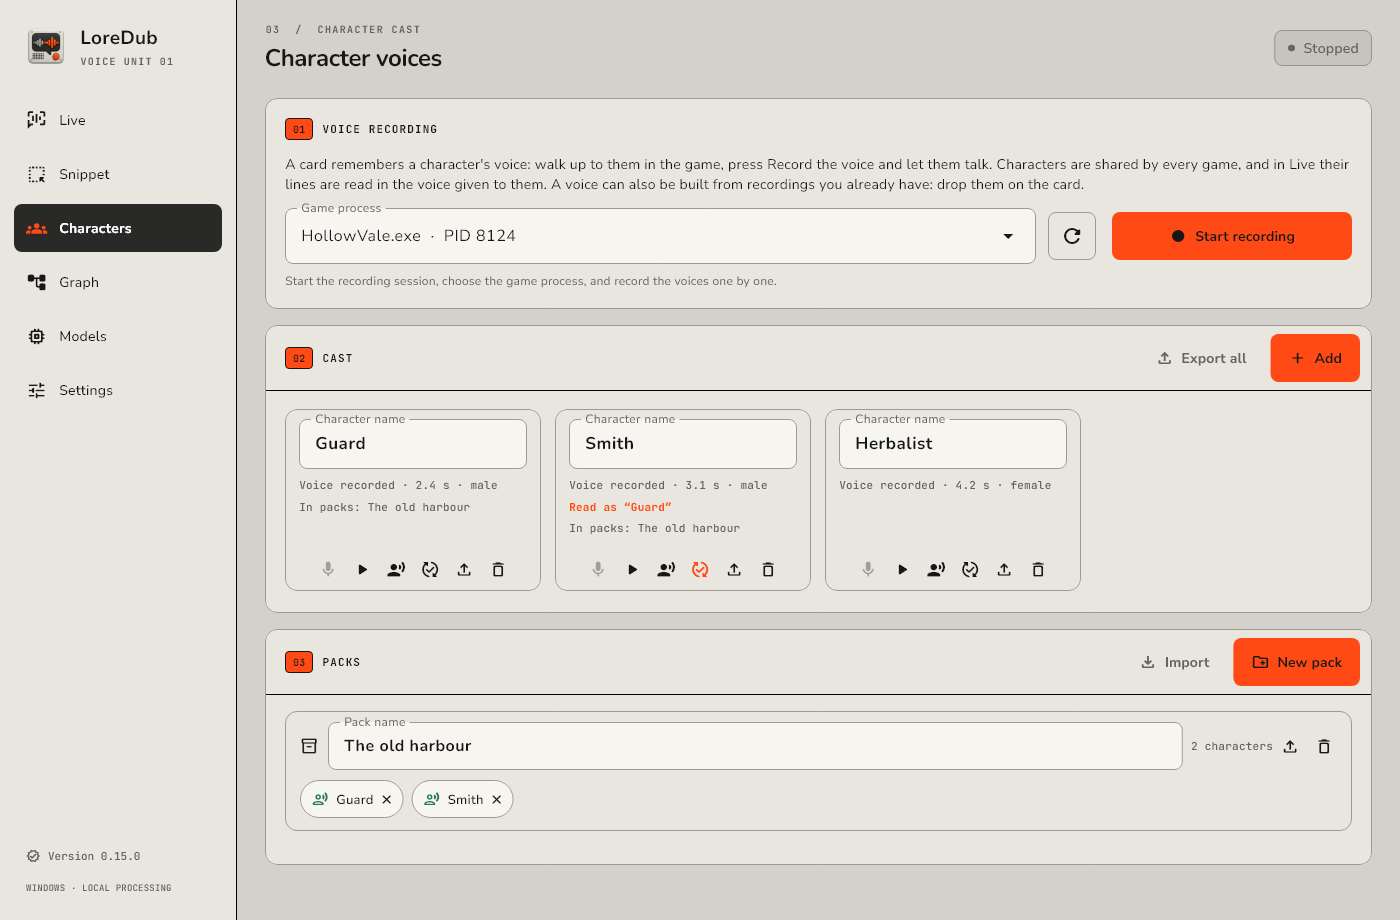
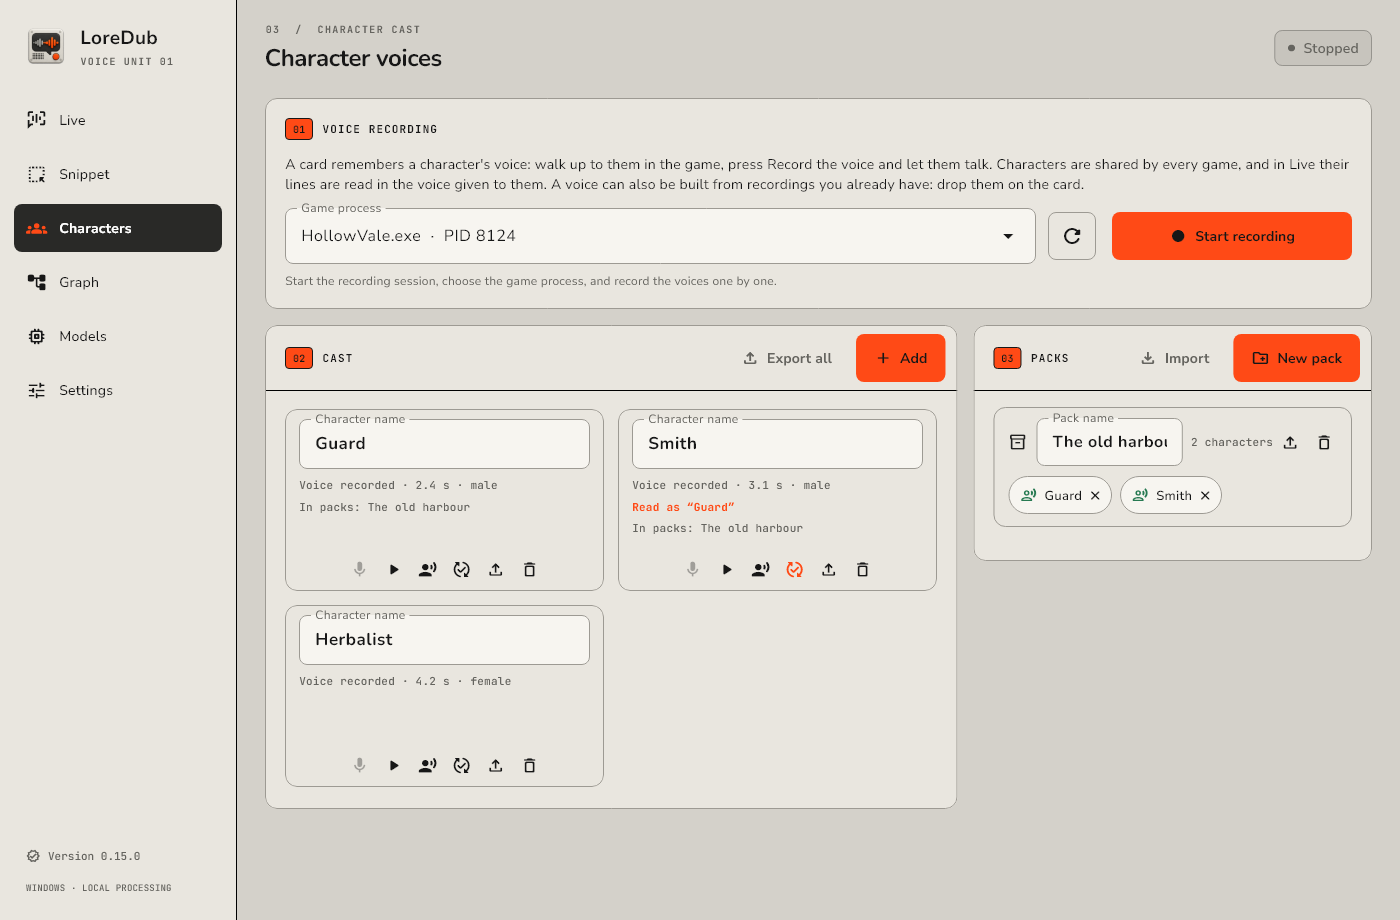
feat: put the packs beside the cast, not under it
A card went into a pack by being dragged down a scrolling column, and the
pack it was headed for was usually off the bottom of the screen by the time
the card was picked up.

The cast now takes the left of the characters screen and the packs stand on
its right, so the journey is across rather than down and both ends of it stay
in sight. Each side scrolls on its own: reaching for a pack no longer moves
the cards under the pointer. A window too narrow to hold two columns -- under
880 for the pair -- puts the packs back underneath, where the drag is longer
but possible.

The heading of an area became a wrap: in a column narrow enough, its buttons
drop to a line of their own rather than off the edge. _ModuleLabel is a row
of its content's width now instead of whatever it is given, or it would fill
a wrap by itself and leave the buttons nowhere to sit.

diff --git a/lib/src/ui/dashboard/dashboard_view.dart b/lib/src/ui/dashboard/dashboard_view.dart
@@ -1928,6 +1928,10 @@ class _ModuleLabel extends StatelessWidget {
 
   @override
   Widget build(BuildContext context) => Row(
+    // As wide as the number and the name, and no wider: given room to
+    // spread — a heading that wraps — a row of its full width would leave
+    // nothing to sit beside it.
+    mainAxisSize: MainAxisSize.min,
     children: [
       Container(
         width: 28,
@@ -2524,23 +2528,75 @@ class _CharactersPanel extends StatelessWidget {
           ready: (selection) => selection.voiceConverter?.installed ?? false,
         ),
         const SizedBox(height: 16),
-        // Two areas, one under the other: the cast, and the packs it is
-        // grouped into. They scroll together, so a card can be dragged from
-        // one into the other without the screen moving under the pointer.
+        // The cast on the left, the packs beside it on the right: a card is
+        // carried across rather than down a scroll, and both ends of the
+        // journey stay in sight the whole way. A window too narrow to hold
+        // the two side by side puts the packs back underneath, where a drag
+        // is longer but possible.
         Expanded(
-          child: ListView(
-            padding: EdgeInsets.zero,
-            children: [
-              _CharacterCast(cubits: cubits),
-              const SizedBox(height: 16),
-              _CharacterPacks(cubits: cubits),
-            ],
+          child: LayoutBuilder(
+            builder: (context, constraints) => constraints.maxWidth < _packsBeside
+                ? ListView(
+                    padding: EdgeInsets.zero,
+                    children: [
+                      _CharacterCast(cubits: cubits),
+                      const SizedBox(height: 16),
+                      _CharacterPacks(cubits: cubits),
+                    ],
+                  )
+                : Row(
+                    crossAxisAlignment: CrossAxisAlignment.start,
+                    children: [
+                      // Each side scrolls on its own, so reaching for a pack
+                      // does not move the cards under the pointer.
+                      Expanded(
+                        child: ListView(
+                          padding: EdgeInsets.zero,
+                          children: [_CharacterCast(cubits: cubits)],
+                        ),
+                      ),
+                      const SizedBox(width: 16),
+                      SizedBox(
+                        width: (constraints.maxWidth * 0.36).clamp(340.0, 480.0),
+                        child: ListView(
+                          padding: EdgeInsets.zero,
+                          children: [_CharacterPacks(cubits: cubits)],
+                        ),
+                      ),
+                    ],
+                  ),
           ),
         ),
       ],
     ),
   );
 }
+
+/// The head of an area: its number and name on one side, what can be done
+/// to it on the other. In a column too narrow to hold both, the buttons
+/// drop to a line of their own rather than off the edge.
+class _AreaHeading extends StatelessWidget {
+  const _AreaHeading({required this.label, required this.actions});
+
+  final Widget label;
+  final List<Widget> actions;
+
+  @override
+  Widget build(BuildContext context) => Wrap(
+    alignment: WrapAlignment.spaceBetween,
+    crossAxisAlignment: WrapCrossAlignment.center,
+    spacing: 8,
+    runSpacing: 4,
+    children: [
+      label,
+      Wrap(spacing: 8, crossAxisAlignment: WrapCrossAlignment.center, children: actions),
+    ],
+  );
+}
+
+/// How much room the characters screen needs before the packs stand beside
+/// the cast rather than under it: two columns of cards, and the gap.
+const _packsBeside = 880.0;
 
 /// Which game to listen to, and whether the session that measures voices is
 /// running. Live dubbing holds the same worker, so the two never run at once.
@@ -2705,10 +2761,9 @@ class _CharacterCast extends StatelessWidget {
           children: [
             Padding(
               padding: const EdgeInsets.fromLTRB(20, 9, 12, 8),
-              child: Row(
-                children: [
-                  const _ModuleLabel(number: '02', label: 'CAST'),
-                  const Spacer(),
+              child: _AreaHeading(
+                label: const _ModuleLabel(number: '02', label: 'CAST'),
+                actions: [
                   TextButton.icon(
                     onPressed: state.characters.isEmpty
                         ? null
@@ -2717,7 +2772,6 @@ class _CharacterCast extends StatelessWidget {
                     label: Text(l10n.charactersExportAll),
                     style: TextButton.styleFrom(foregroundColor: LoreDubPalette.mutedInk),
                   ),
-                  const SizedBox(width: 8),
                   FilledButton.icon(
                     key: const ValueKey('charactersAdd'),
                     onPressed: () => cubits.characters.add(l10n.charactersNewName),
@@ -2884,10 +2938,9 @@ class _CharacterPacks extends StatelessWidget {
           children: [
             Padding(
               padding: const EdgeInsets.fromLTRB(20, 9, 12, 8),
-              child: Row(
-                children: [
-                  const _ModuleLabel(number: '03', label: 'PACKS'),
-                  const Spacer(),
+              child: _AreaHeading(
+                label: const _ModuleLabel(number: '03', label: 'PACKS'),
+                actions: [
                   TextButton.icon(
                     key: const ValueKey('charactersImport'),
                     onPressed: () => _import(context),
@@ -2895,7 +2948,6 @@ class _CharacterPacks extends StatelessWidget {
                     label: Text(l10n.charactersImport),
                     style: TextButton.styleFrom(foregroundColor: LoreDubPalette.mutedInk),
                   ),
-                  const SizedBox(width: 8),
                   FilledButton.icon(
                     key: const ValueKey('packsAdd'),
                     onPressed: () => cubits.characters.addPack(l10n.packsNewName),

diff --git a/test/widget_test.dart b/test/widget_test.dart
@@ -2276,6 +2276,41 @@ void main() {
       );
     });
 
+    testWidgets('puts the packs beside the cast, and under it in a narrow window', (
+      tester,
+    ) async {
+      final cubits = stageCast(
+        characters: const CharactersState(
+          loading: false,
+          characters: [guard],
+          packs: [CharacterPack(id: 'p1', name: 'Таверна')],
+        ),
+      );
+      await pumpDashboard(tester, cubits, const Size(1400, 900));
+
+      final cast = tester.getRect(find.byType(CharacterTile));
+      final packs = tester.getRect(find.byType(CharacterPackArea));
+      expect(
+        packs.left,
+        greaterThan(cast.right),
+        reason: 'a card is carried across to the pack rather than down a scroll',
+      );
+      expect(
+        (packs.top - cast.top).abs(),
+        lessThan(200),
+        reason: 'and both ends of the journey are in sight at once',
+      );
+
+      // A window too narrow for two columns puts them back one under the
+      // other, where the drag is longer but possible.
+      await pumpDashboard(tester, cubits, const Size(840, 900));
+
+      expect(
+        tester.getRect(find.byType(CharacterPackArea)).top,
+        greaterThan(tester.getRect(find.byType(CharacterTile)).top),
+      );
+    });
+
     testWidgets('drops a card into a pack and takes it back out', (tester) async {
       final cubits = stageCast(
         characters: const CharactersState(

diff --git a/README.md b/README.md
@@ -174,7 +174,7 @@ LoreDub. В списке процессов первыми идут недавн
 ### Персонажи
 
 <p align="center">
-  <img src="docs/screenshots/characters-ru.png" width="900" alt="Экран «Персонажи»: карточки записанных голосов и пакет под ними">
+  <img src="docs/screenshots/characters-ru.png" width="900" alt="Экран «Персонажи»: карточки записанных голосов слева и пакеты справа">
 </p>
 
 Здесь заводятся карточки персонажей: **Добавить** создаёт пустую, имя вводится
@@ -232,7 +232,13 @@ LoreDub. В списке процессов первыми идут недавн
 которые «Эфир» заводит сам. Карточка, принесённая обратно после правки,
 ложится на ту, из которой вышла.
 
-Под карточками — **пакеты**. **Создать пакет** заводит область, её имя правится
+Справа от карточек — **пакеты**: список персонажей слева, пакеты рядом, так что
+карточка переносится поперёк экрана, а не вниз через прокрутку, и оба конца
+пути видно всю дорогу. Каждая половина прокручивается сама по себе, поэтому,
+дотягиваясь до пакета, вы не сдвигаете карточки под курсором. В окне, где две
+колонки не помещаются, пакеты встают обратно под список.
+
+**Создать пакет** заводит область, её имя правится
 на месте, а карточки попадают туда перетаскиванием: возьмите карточку мышью и
 бросьте на пакет. Один персонаж может лежать сразу в нескольких пакетах — в
 карточке подписано, в каких. Обратно карточка убирается крестиком на ней или

diff --git a/README.en.md b/README.en.md
@@ -176,7 +176,7 @@ windowed or borderless: a game in exclusive fullscreen would minimize.
 ### Characters
 
 <p align="center">
-  <img src="docs/screenshots/characters-en.png" width="900" alt="The Characters screen: the recorded cards and a pack under them">
+  <img src="docs/screenshots/characters-en.png" width="900" alt="The Characters screen: the recorded cards on the left and the packs beside them">
 </p>
 
 This is where character cards are kept: **Add** creates an empty one, the name
@@ -236,7 +236,14 @@ the guard still gets the smith's voice. Characters are shared by every
 game, unlike the voices Live founds by itself, and a card brought back after
 an edit lands on the one it came from.
 
-Below the cards are the **packs**. **New pack** opens an area whose name is
+Beside the cards, to their right, are the **packs**: the cast on the left and
+the packs next to it, so a card is carried across the screen rather than down
+a scroll, and both ends of the journey stay in sight the whole way. Each side
+scrolls on its own, so reaching for a pack does not move the cards under the
+pointer. In a window too narrow to hold the two side by side, the packs go
+back underneath.
+
+**New pack** opens an area whose name is
 typed in place, and cards go into it by being dragged: pick a card up with the
 mouse and drop it on the pack. One character may be in several packs at once —
 the card says which. A card leaves a pack by the cross on it or by being

diff --git a/CHANGELOG.md b/CHANGELOG.md
@@ -4,6 +4,11 @@
 
 ## [Не выпущено]
 
+- На экране «Персонажи» пакеты встали справа от карточек, а не под ними: карточка переносится в
+  пакет поперёк экрана, а не вниз через прокрутку, и оба конца пути видно всю дорогу. Каждая
+  половина прокручивается сама по себе, так что, дотягиваясь до пакета, вы не сдвигаете карточки
+  под курсором. В узком окне пакеты встают обратно под список — путь длиннее, но он есть.
+
 ## [0.16.0] - 2026-09-14
 
 - Разделы в меню идут в порядке работы: «Эфир», «Фрагмент», «Персонажи», «Схема», «Модели»,
